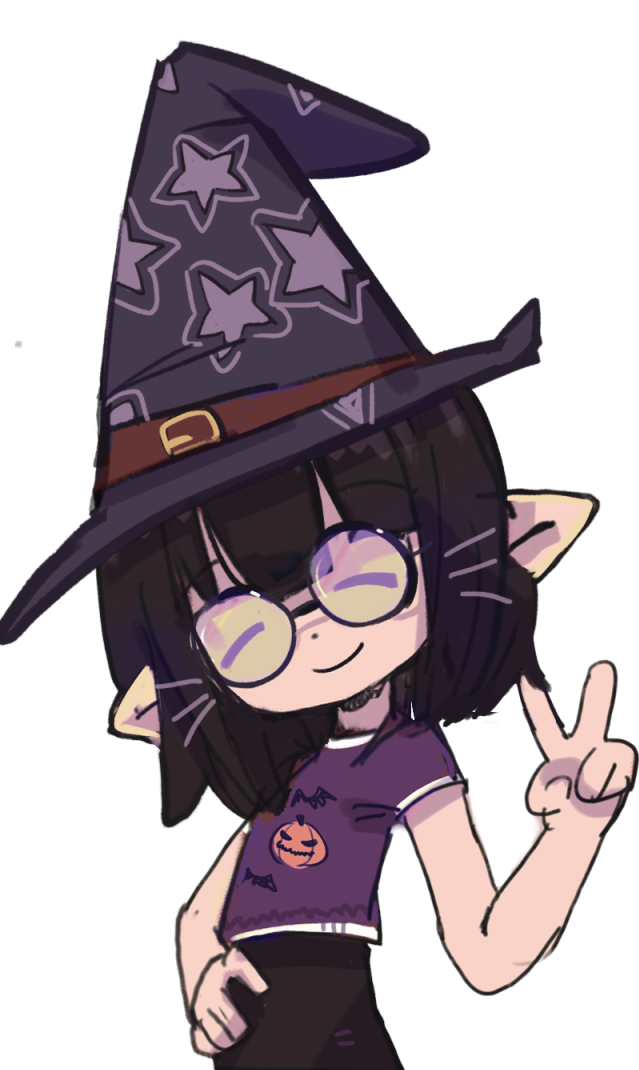
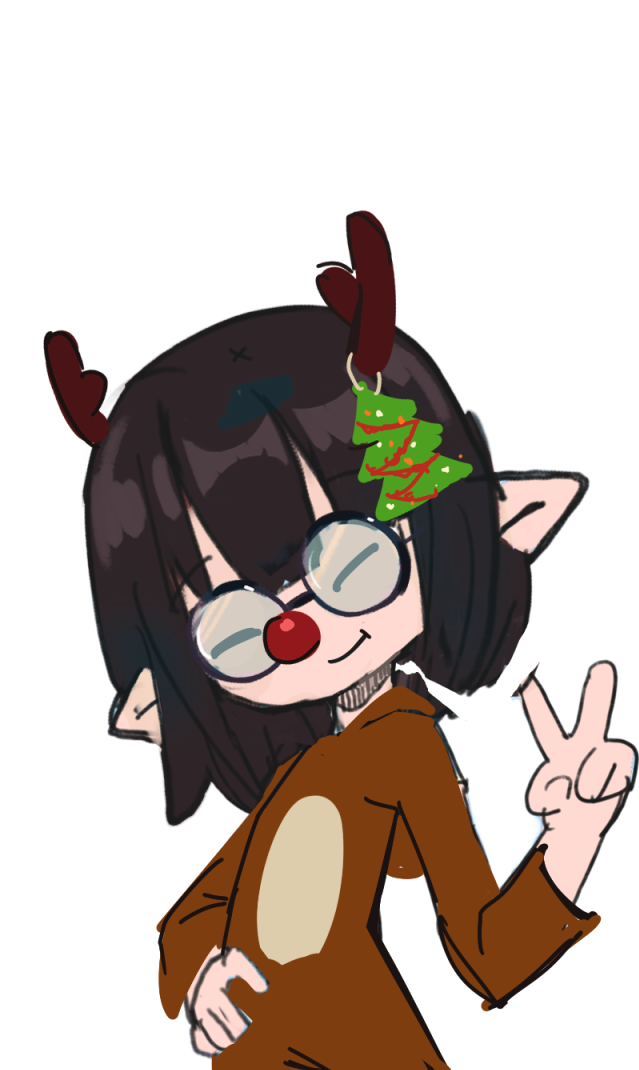
christmas theme update

diff --git a/app/styles.css b/app/styles.css
@@ -12,7 +12,7 @@
   /* Accent hue (ThemeCard updates this) */
   --hue: 265; /* purple */
 
-  /* Dark theme defaults */
+  /* Dark theme defaults 
   --bg: #000000;
   --card: #b7acd4;
   --edge: #6c4388;
@@ -22,7 +22,17 @@
   --btnright: #32214d;
   --btnlefttext: #32214d; 
   --btnrighttext: #b8abe2;
+  */
 
+  --bg: #000000;
+  --card: #acc2d4;
+  --edge: #436788;
+  --ink: #e5e5e5;
+  --muted: #0a123f;
+  --btnleft: #abcce2;  
+  --btnright: #21364d;
+  --btnlefttext: #21394d; 
+  --btnrighttext: #abbce2;
 
   /* Accent derived from hue */
   --primary: hsl(var(--hue) 90% 65%);
@@ -41,7 +51,7 @@
 
 
 /* ---------- Light theme overrides (toggle via <html data-theme="light">) ---------- */
-
+/* haloween theme 
 :root[data-theme="light"] {
   --bg: #f7f7fb;
   --card: #ffffff;
@@ -54,6 +64,21 @@
   --btnright: #7349b8;
   --btnlefttext: #543388; 
   --btnrighttext: #b8abe2;
+}
+*/
+
+:root[data-theme="light"] {
+  --bg: #f7f7fb;
+  --card: #ffffff;
+  --edge: #e6e7ec;
+  --ink: #131316;
+  --muted: #61646b;
+  --overlay: rgba(0, 0, 0, 0.05);
+  --shadow: 0 4px 24px rgba(16,24,40,0.08);
+  --btnleft: #abe2e2;  
+  --btnright: #498cb8;
+  --btnlefttext: #337088; 
+  --btnrighttext: #abe0e2;
 }
 
 * { box-sizing: border-box; }
@@ -462,27 +487,46 @@ html, body {
 :root{
   --px: 2px;
 
-  /* flat lilith palette */
-  --window-border: #6f5a97;   /* frame + title + bottom strip */
-  --window-inner:  #a18da7;   /* lighter lilac interior */
-  --window-text:   #603d8f;   /* body text */
-  --title-text:    #e2d1dc;   /* title text / icons */
-  --outline:      #3b2c5a;   /* dark outline on light bg */
-  --btnclr:        #8f76b8;   /* window button color */
-  --techclr:      #3f1e75;   /* tech stack highlight color */
+  /* flat haloween palette 
+  --window-border: #6f5a97; 
+  --window-inner:  #a18da7;
+  --window-text:   #603d8f;
+  --title-text:    #e2d1dc;
+  --outline:      #3b2c5a;
+  --btnclr:        #8f76b8;
+  --techclr:      #3f1e75; 
+  */
+
+  --window-border: rgb(68, 89, 128); 
+  --window-inner:  #8d9ba7;
+  --window-text:   #3d718f;
+  --title-text:    #d1d8e2;
+  --outline:      #2c405a;
+  --btnclr:        #7690b8;
+  --techclr:      #1e4e75; 
 }
 
-/* Light variant, toggled by adding data-theme="light" on <html> */
+/* Light variant, toggled by adding data-theme="light" on <html>
 :root[data-theme="light"] {
-  --window-border: #c9b7e6;   /* softer lilac frame */
-  --window-inner:  #ece5f5;   /* near-white inner panel */
-  --window-text:   #4a3570;   /* dark purple text */
-  --title-text:    #4f2a8f;   /* title strip text/icons */
-  --outline:       #d8caee;   /* subtle edge highlight */
-  --btnclr:        #8f76b8;   /* window button color */
-  --techclr:       #352269;   /* tech stack highlight color */
+  --window-border: #c9b7e6; 
+  --window-inner:  #ece5f5;
+  --window-text:   #4a3570;
+  --title-text:    #4f2a8f;
+  --outline:       #d8caee;
+  --btnclr:        #8f76b8;
+  --techclr:       #352269;
 }
+*/
 
+:root[data-theme="light"] {
+  --window-border: #b7cde6;   /* softer lilac frame */
+  --window-inner:  #e5eef5;   /* near-white inner panel */
+  --window-text:   #355a70;   /* dark purple text */
+  --title-text:    #2a4a8f;   /* title strip text/icons */
+  --outline:       #cadaee;   /* subtle edge highlight */
+  --btnclr:        #7685b8;   /* window button color */
+  --techclr:       #225369;   /* tech stack highlight color */
+}
 
 /* whole window */
 .window{

diff --git a/components/MusicCard.jsx b/components/MusicCard.jsx
@@ -2,8 +2,10 @@
 import { useEffect, useRef, useState } from "react";
 
 const DEFAULT_PLAYLIST =
+  "https://youtube.com/playlist?list=PLD07E9C64CA51C7F9&si=1lx8JAz_Sk7meSPE";
+  /* HALOWEEN
   "https://youtube.com/playlist?list=PL8zpqoBijZMKqeOKglDyHEmz61fMTjHMH&si=nY99Ybcr1vXM7W_2";
-
+  */
 const ICN = {
   PREV:  "https://lilithdev.neocities.org/shrine/vg/nso/sprites/music_prev.png",
   PLAY:  "https://lilithdev.neocities.org/shrine/vg/nso/sprites/music_play.png",
@@ -178,9 +180,14 @@ export default function MusicCard() {
   }
 
   const barVars = {
+    /*HALOWEEN
     "--bar-track": "#decbe6",
     "--bar-edge":  "#8a6bb8",
     "--bar-fill":  "#2f20c9",
+    */
+    "--bar-track": "#cbdde6ff",
+    "--bar-edge":  "rgba(203, 224, 230, 1)",
+    "--bar-fill":  "#2055c9ff",
   };
 
   /* ---------- RENDER ---------- */

diff --git a/components/Halloween/confetti.jsx b/components/Halloween/confetti.jsx
@@ -9,7 +9,7 @@ export default function CandyConfetti() {
     confettiRef.current = new JSConfetti();
   }, []);
 
-  const candies = ["🍬", "🍫", "🍭", "🎃"];
+  const candies = ["❄", "⛄", "🎅", "🎄"];
 
   function throwCandiesEverywhere() {
     confettiRef.current?.addConfetti({
